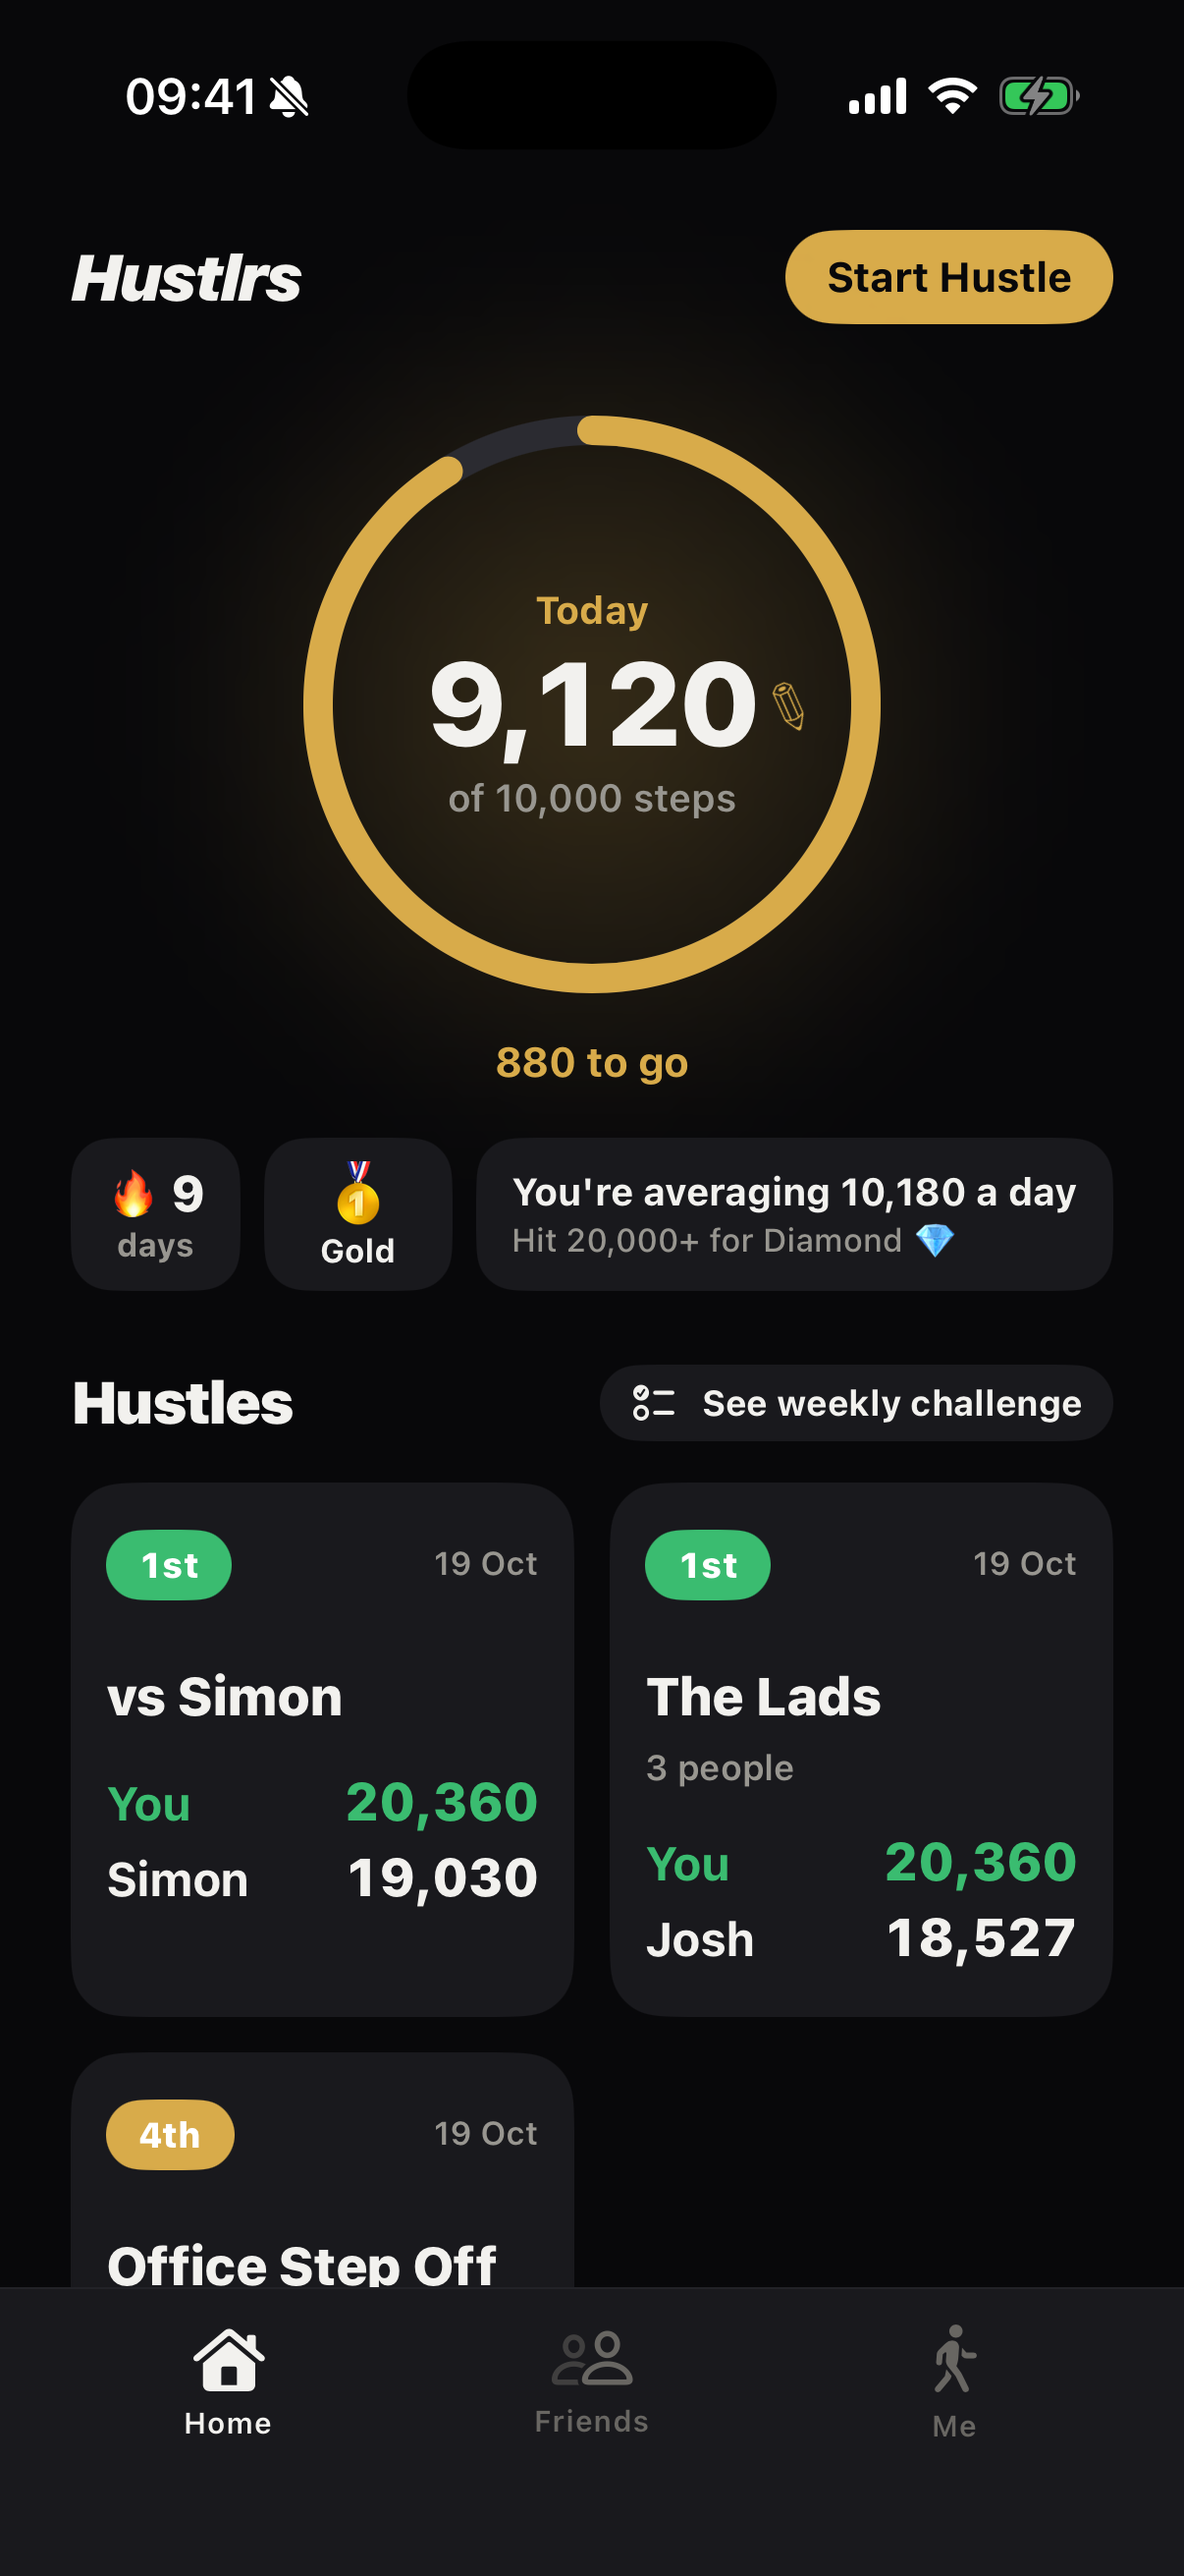
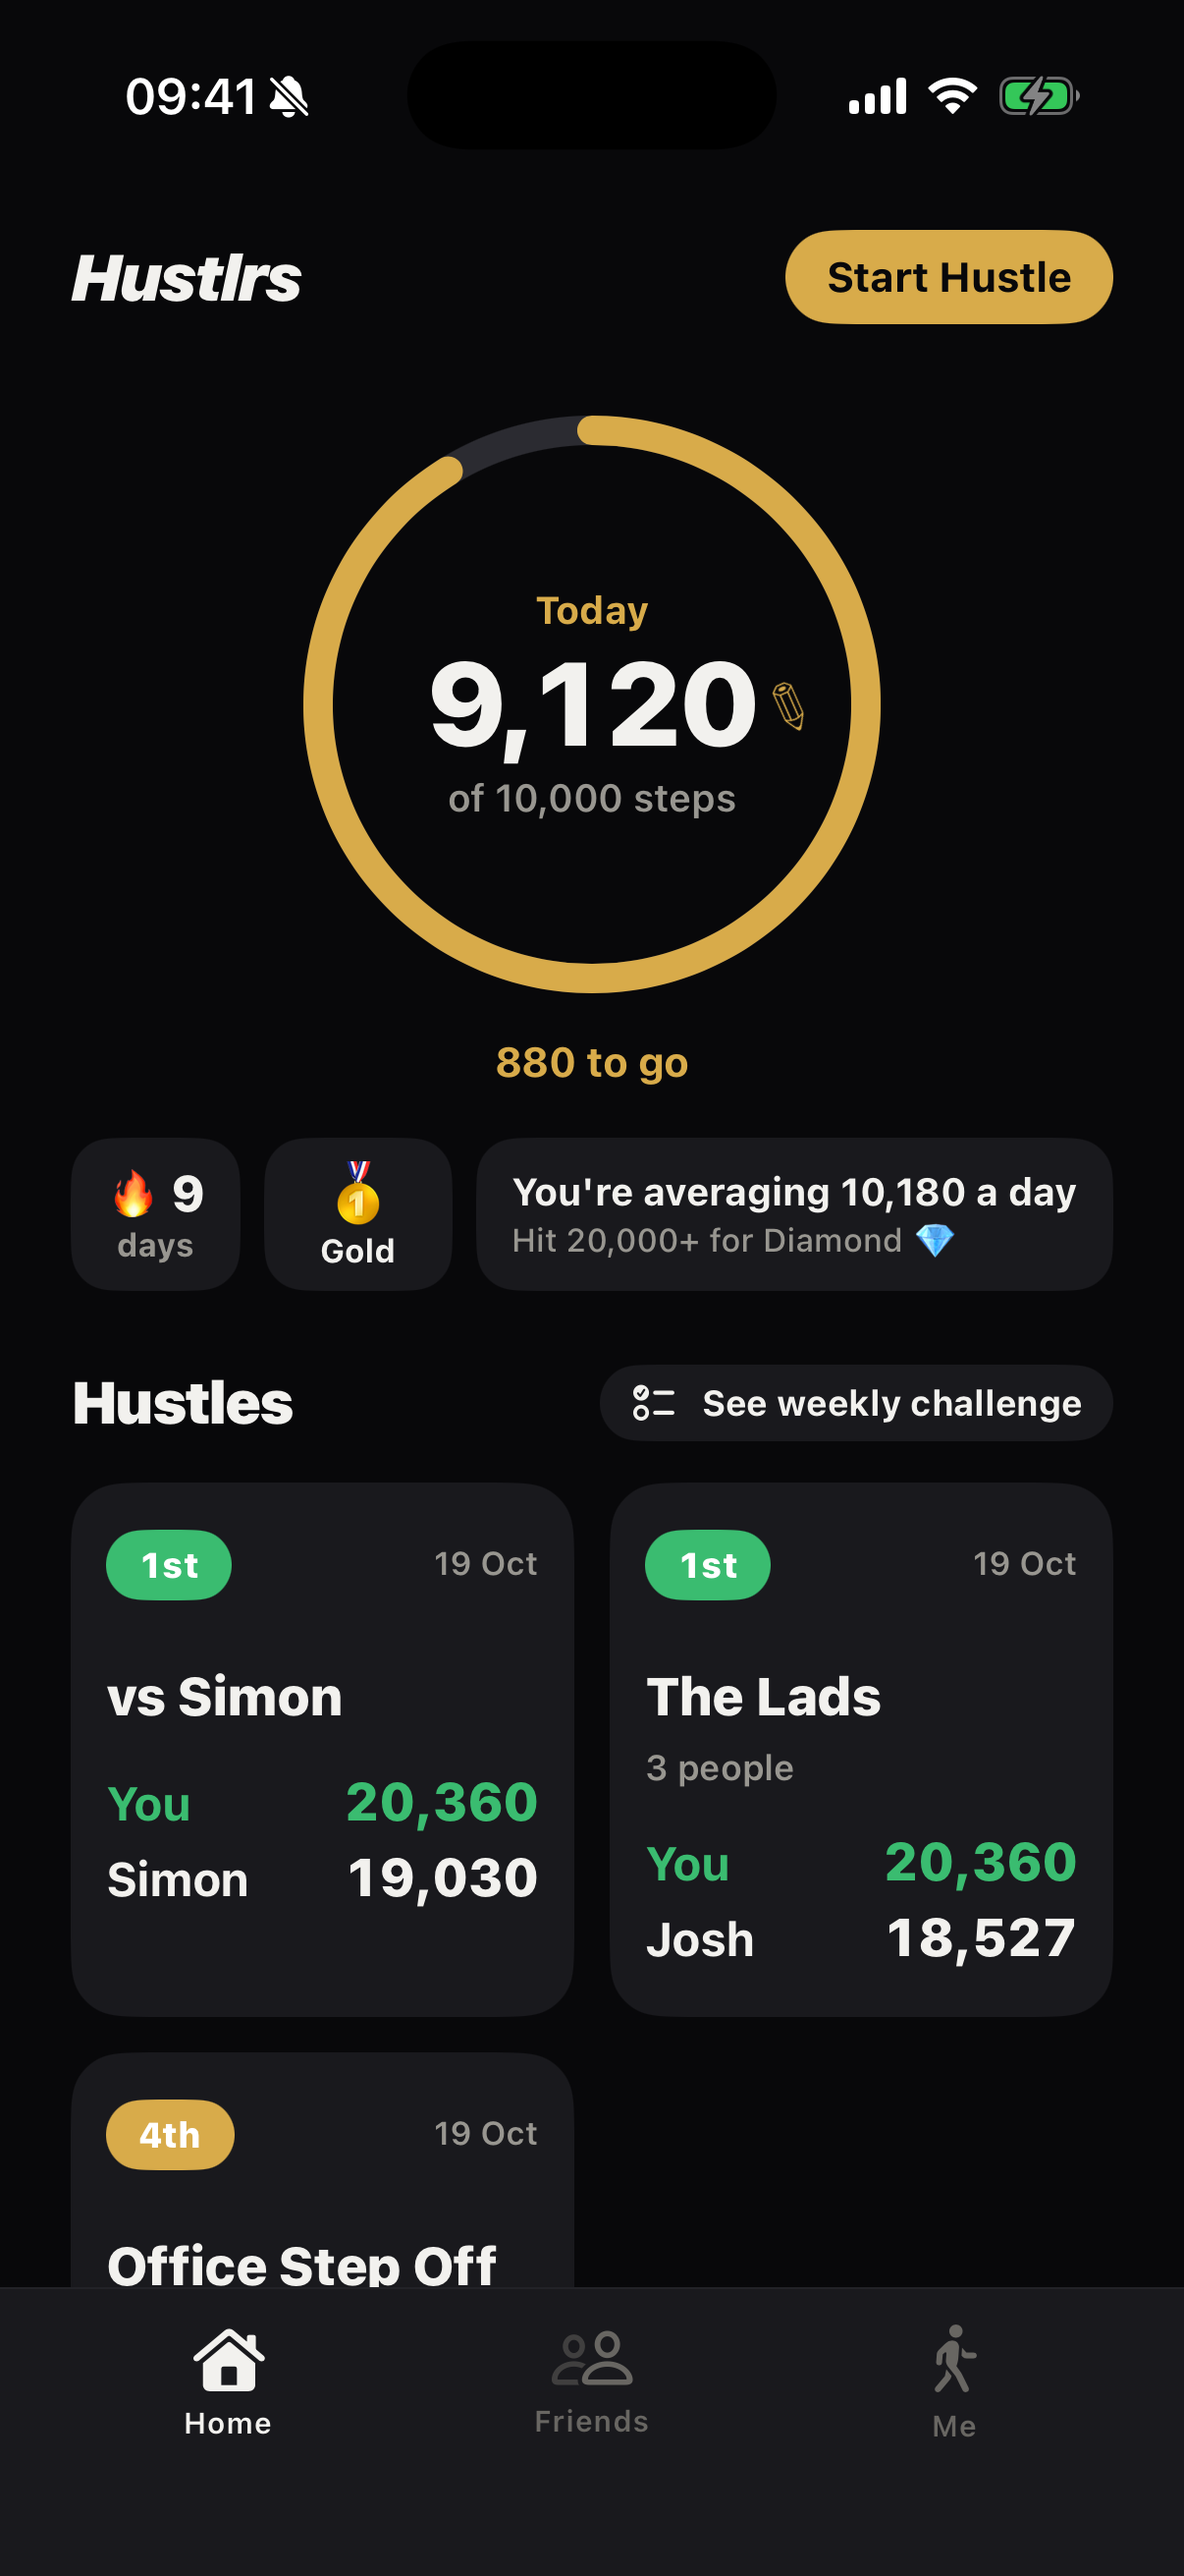
Home screenshot without the ring glow
Claude-Session: https://claude.ai/code/session_01M8LPGbBaNUuEXpz4UKXX8h

Changed region(s): [[0.3068, 0.1854, 0.7056, 0.3707]]

diff --git a/index.html b/index.html
@@ -53,7 +53,7 @@
       <div class="hero-phones" aria-hidden="false">
         <div class="phone phone-side"><img src="img/shot-friends.png?v=2" alt="The Friends tab ranking you and your mates on steps" width="1206" height="2622"></div>
         <div class="phone phone-main"><img src="img/shot-hustle.png?v=5" alt="A 1v1 step challenge between two friends, with the forfeit at stake" width="1206" height="2622"></div>
-        <div class="phone phone-side"><img src="img/shot-home.png?v=2" alt="The Hustlrs home screen with today's step ring" width="1206" height="2622"></div>
+        <div class="phone phone-side"><img src="img/shot-home.png?v=3" alt="The Hustlrs home screen with today's step ring" width="1206" height="2622"></div>
       </div>
     </section>
 
